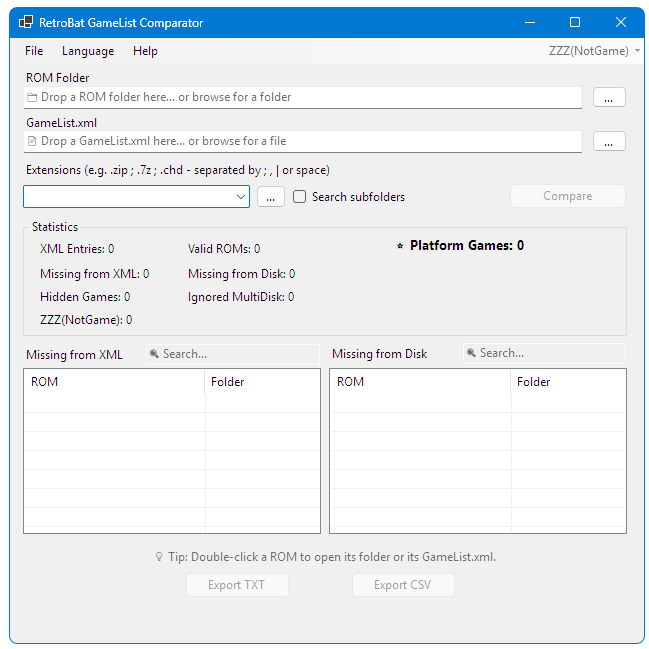
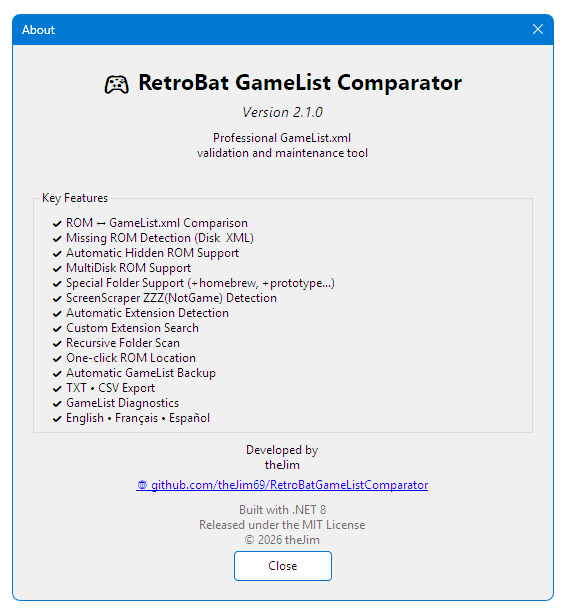
docs: update README and screenshots

diff --git a/README.md b/README.md
@@ -21,10 +21,13 @@ Detect missing ROMs, obsolete XML entries, and keep your RetroBat collections pe
 ## ⭐ Highlights
 
 - ✔ Accurate comparison engine
-- ✔ Hidden & MultiDisk aware
-- ✔ Drag & Drop support
-- ✔ TXT / CSV exports
 - ✔ GameList diagnostics
+- ✔ Hidden, MultiDisk & Special Folder aware
+- ✔ ScreenScraper ZZZ(NotGame) detection
+- ✔ One-click ZZZ(NotGame) repair
+- ✔ Automatic GameList backup
+- ✔ TXT / CSV / Diagnostic reports
+- ✔ Drag & Drop support
 - ✔ English / French / Spanish
 - ✔ Automatic update checker
 
@@ -52,10 +55,30 @@ Unlike a simple file comparison tool, it understands how **RetroBat** and **Emul
 
 ---
 
+# 🆕 What's New in v2.1.0
+
+Version **2.1.0** introduces the first complete workflow for managing ScreenScraper **ZZZ(NotGame)** entries.
+
+### New Features
+
+- ✅ Detect ScreenScraper `ZZZ(NotGame)` entries
+- ✅ Dedicated ZZZ(NotGame) counter
+- ✅ Localized tooltip
+- ✅ Dedicated TXT report
+- ✅ One-click automatic repair
+- ✅ Automatic GameList backup
+- ✅ Automatic comparison refresh
+- ✅ Improved comparison accuracy
+- ✅ Better handling of RetroBat special folders
+
+---
+
 ## 🎮 RetroBat / EmulationStation Support
 
 - ✅ Hidden games (`<hidden>`) are automatically ignored
 - ✅ MultiDisk child files (`<multidisk>`) are automatically ignored
+- ✅ Special RetroBat folders (`+homebrew`, `+prototype`, ...)
+- ✅ ScreenScraper ZZZ(NotGame) detection
 - ✅ Correct platform game count
 - ✅ Relative path comparison
 
@@ -90,6 +113,21 @@ Unlike a simple file comparison tool, it understands how **RetroBat** and **Emul
 - ✅ TXT report
 - ✅ CSV report
 - ✅ GameList diagnostic report
+
+---
+
+## 🆕 ZZZ(NotGame) Report
+
+A dedicated report can now be generated for ScreenScraper
+**ZZZ(NotGame)** entries.
+
+The report includes:
+
+- Detected entries
+- ROM filename
+- Relative path
+- Platform statistics
+- Generation date
 
 ---
 
@@ -193,6 +231,22 @@ This prevents false positives and produces statistics that closely match the gam
 
 ---
 
+## Automatic Repairs
+
+RetroBat GameList Comparator can automatically repair
+ScreenScraper `ZZZ(NotGame)` entries.
+
+The repair process:
+
+- Removes the `ZZZ(NotGame):` prefix
+- Restores `<hidden>false</hidden>`
+- Creates an automatic backup
+- Refreshes the comparison automatically
+
+Every repair is completely safe thanks to the automatic backup.
+
+---
+
 # 🎯 Drag & Drop
 
 Simply drag:
@@ -239,12 +293,15 @@ The next major milestone will focus on the evolution of RetroBat GameList Compar
 
 Current priorities include:
 
-- Improved documentation
 - Release validation process
 - Collection management
 - Advanced diagnostics
 - XML maintenance tools
 - Batch operations
+- Enhanced GameList diagnostics
+- Metadata validation
+- Media verification
+- HTML reports
 
 ---
 
